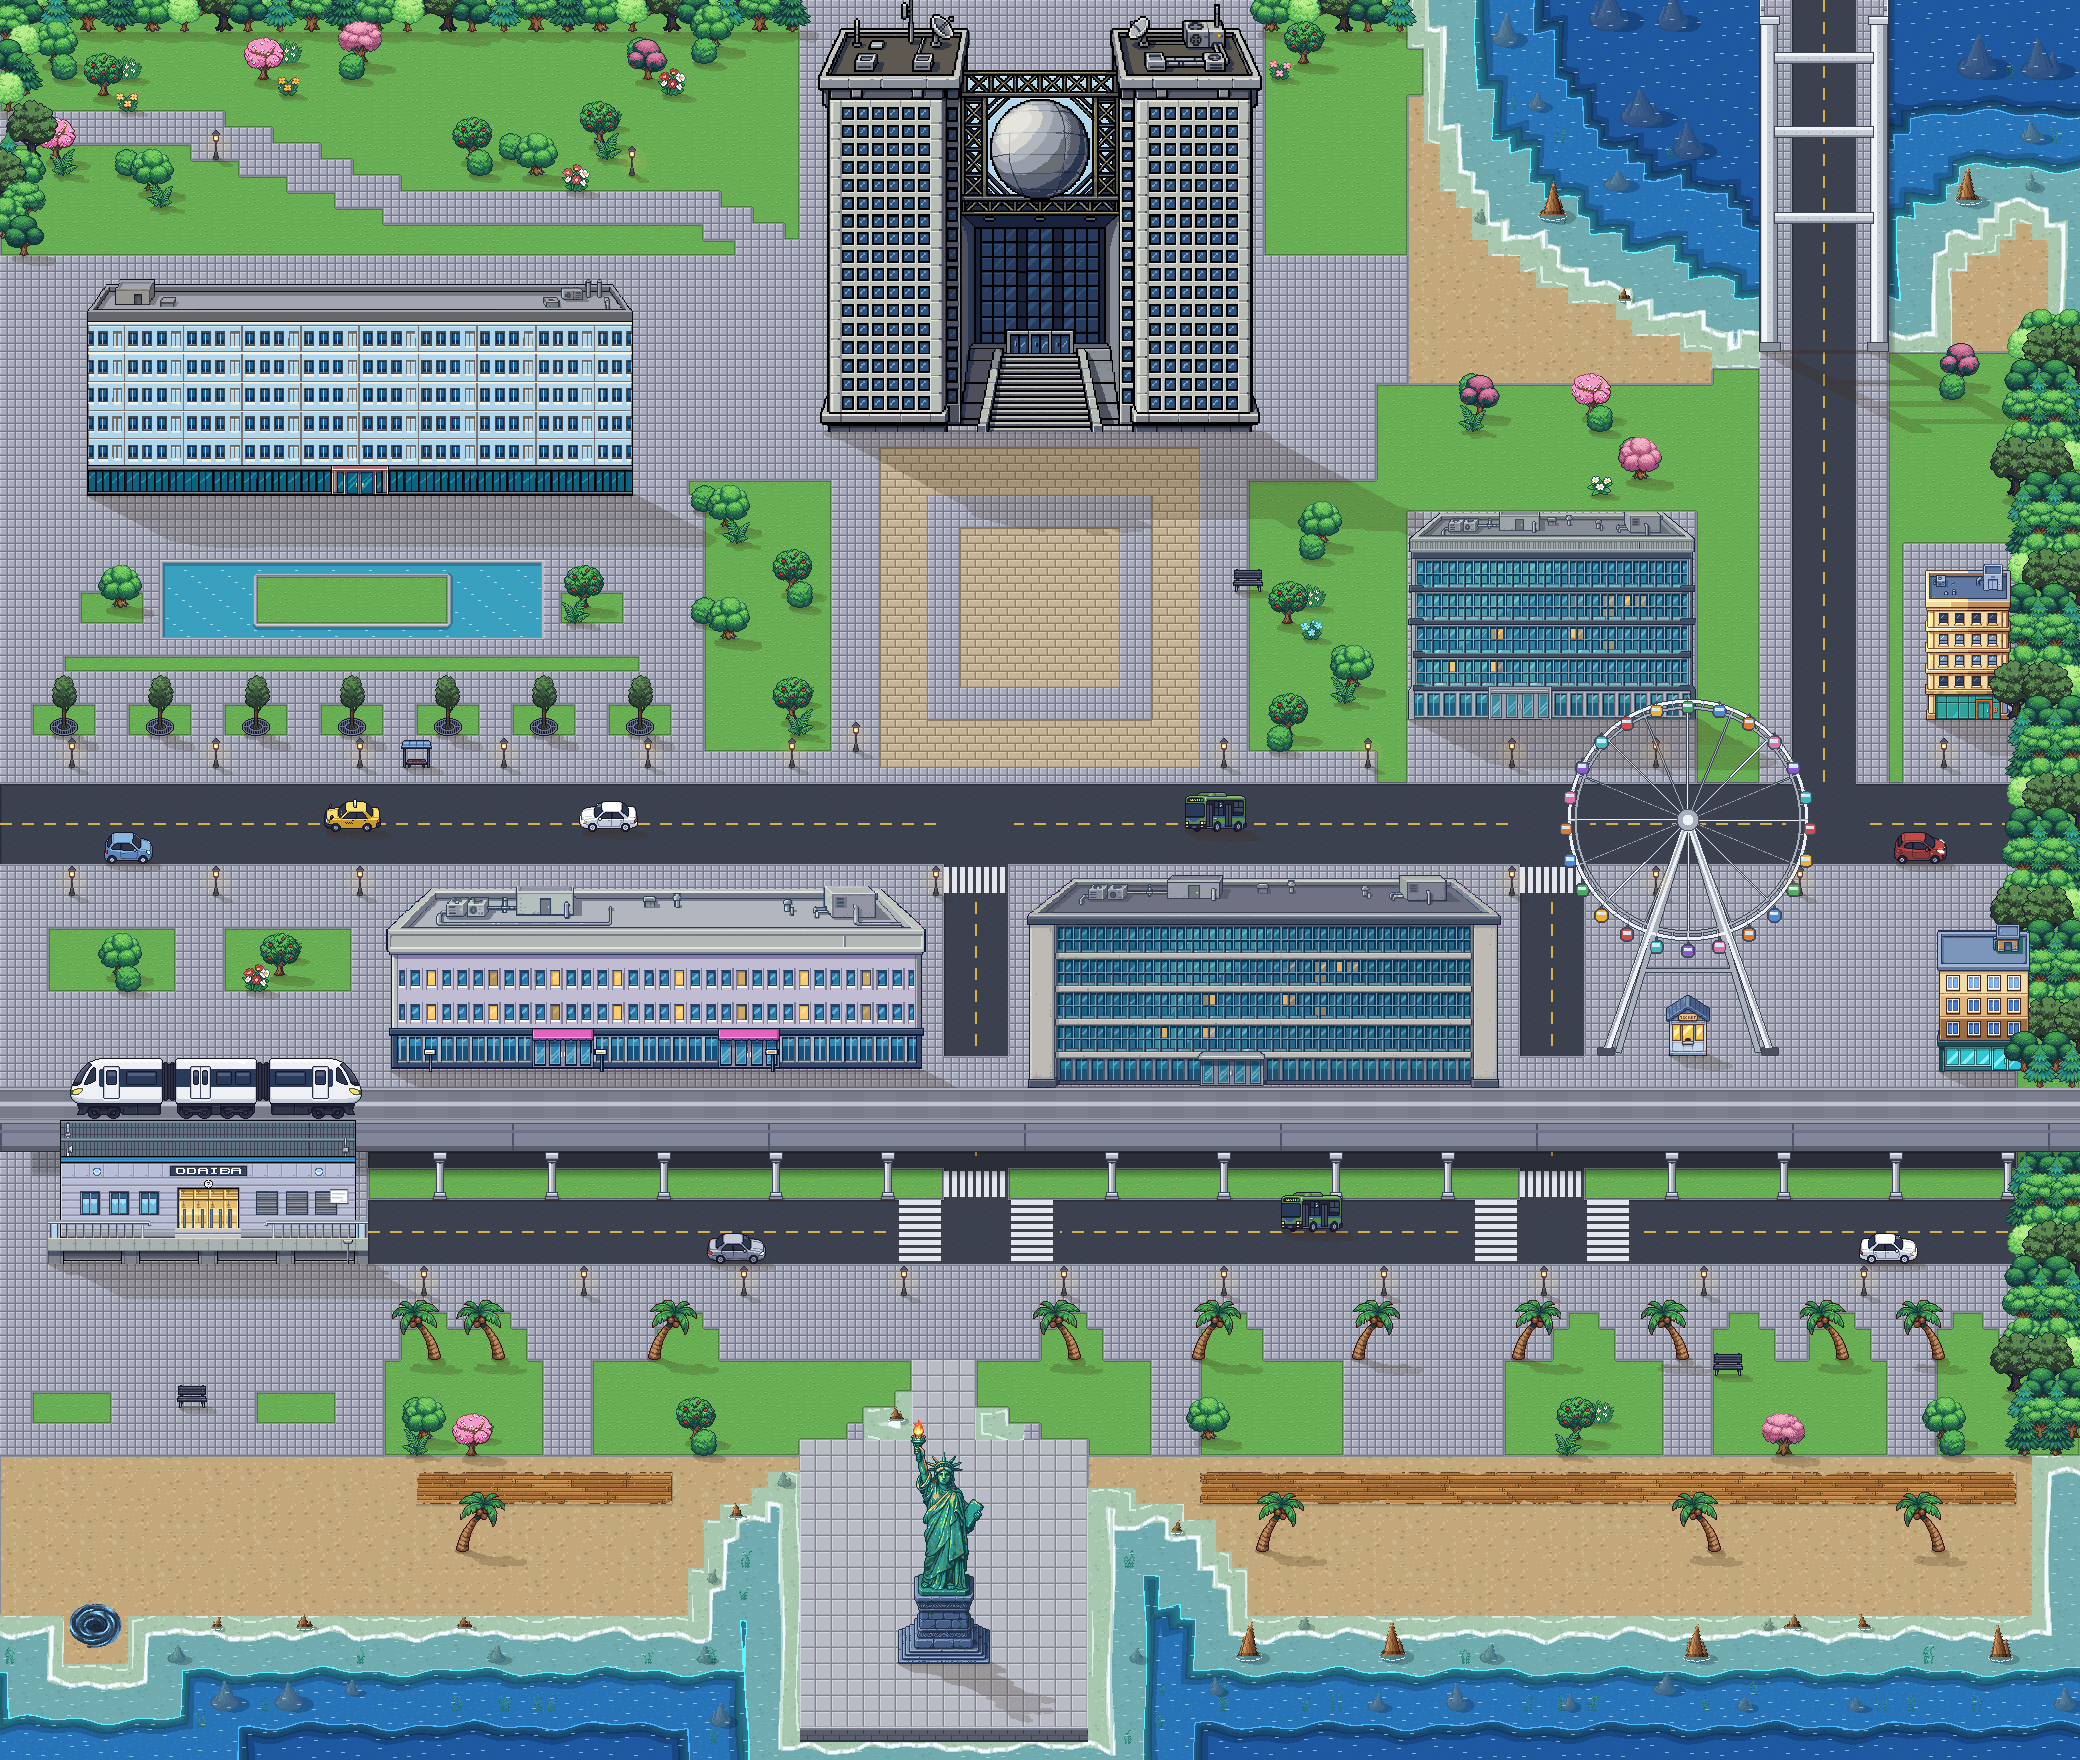
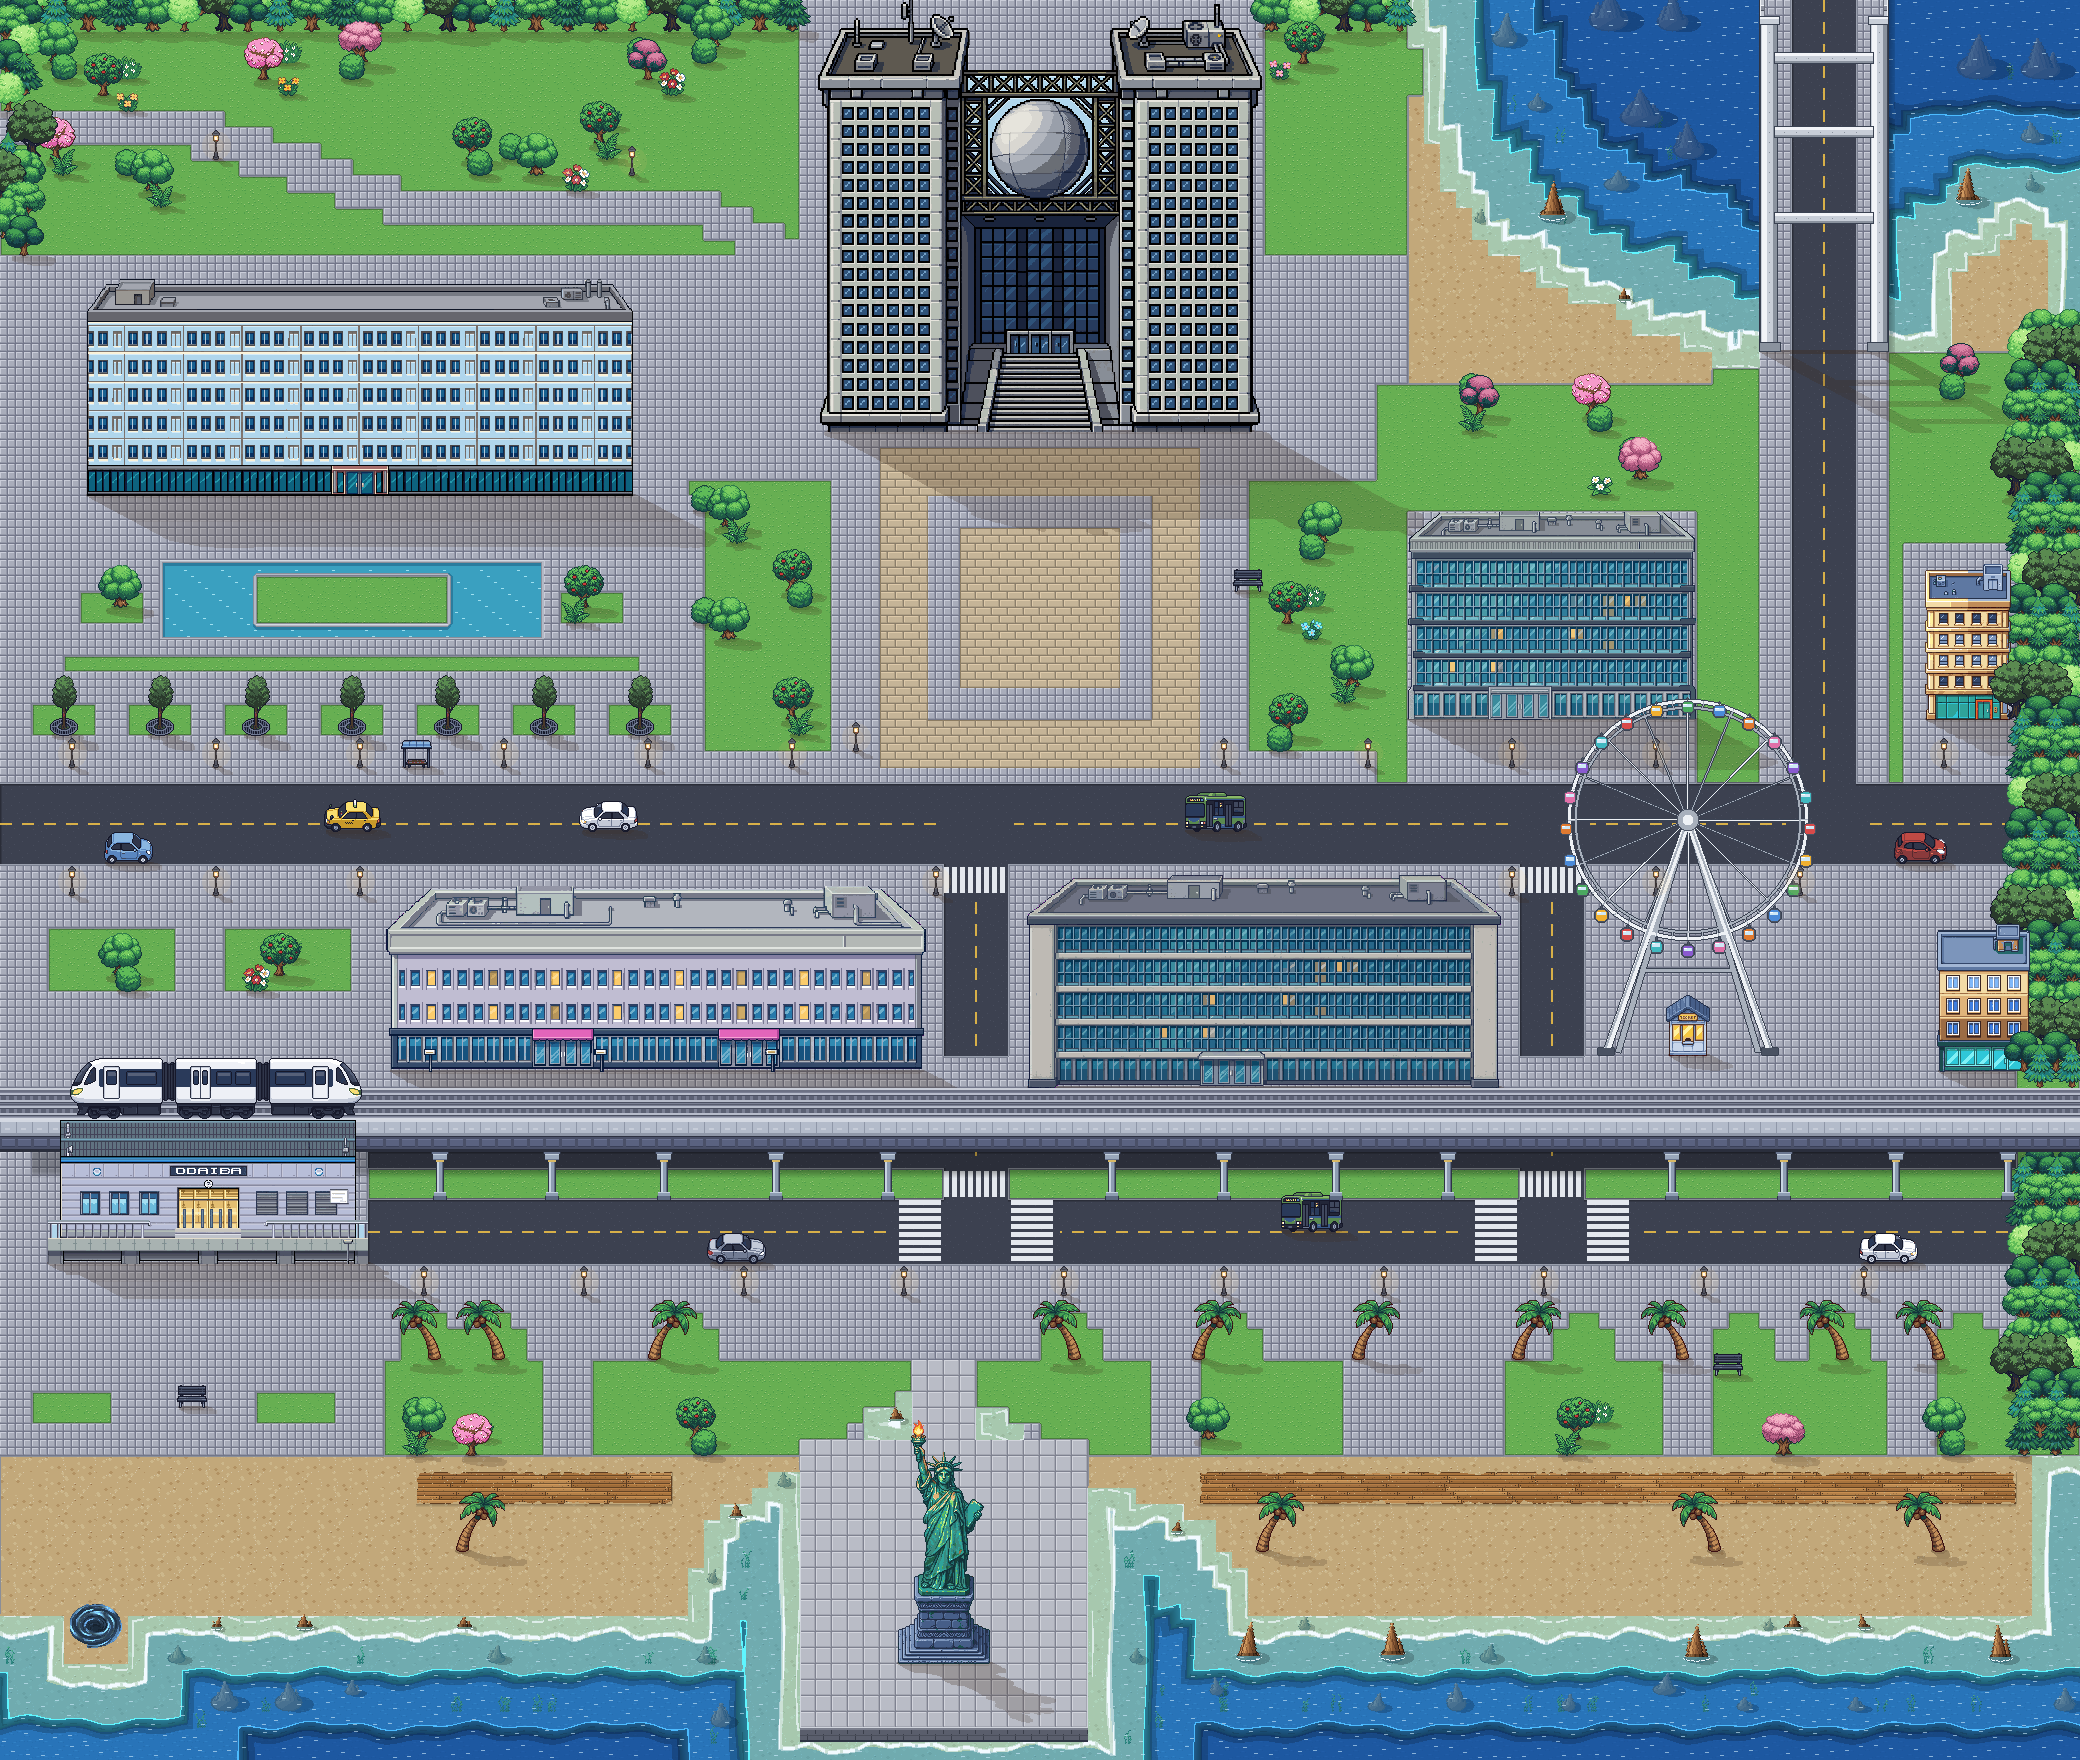
K30: Hochbahn aus kachelbarem Segment (7 Kacheln, Fahrbahn mit 2 Gleisen, Steinband, Paneelband, Stuetzpfeiler) im Stil der Vorlage; Variante ohne Pfeiler ueber Querstrassen
Claude-Session: https://claude.ai/code/session_01SaoYHKhnro4LFcPJqjaPsq

Changed region(s): [[0.125, 0.5938, 1.0, 0.6875], [0.0, 0.5938, 0.0938, 0.6562]]

diff --git a/tools/karte30_bauen.py b/tools/karte30_bauen.py
@@ -115,7 +115,77 @@ def bruecke(a, lay, wasser_m, lvl, frame):
     lvl[:Y1, X0:X0 + 5] = 9; lvl[:Y1, X1 - 5:X1] = 9
 
 
+SEG_B, SEG_P = 7, 3                                                      # Segment 7 Kacheln breit, Pfeiler in Kachel 3
+
+
+def brueckensegment(pfeiler=True):
+    """Kachelbares Hochbahn-Segment im Stil der Vorlage (Nutzer): 112 x 112 px (7 x 7 Kacheln), oben 2 Kacheln Fahrbahn
+    (Bruestung, zwei Gleise mit Schwellen), 1 Kachel helles Steinband, 1 Kachel dunkles Paneelband mit Unterkante, darunter
+    3 Kacheln frei mit einem blaugrauen Stuetzpfeiler (Kapitell, Schaft, Fuss) mittig in Kachel 3. Alle Muster haben
+    eine Periode, die 112 teilt -> nahtlos aneinander setzbar."""
+    W, Hh = SEG_B * T, 7 * T
+    a = np.zeros((Hh, W, 4), np.uint8)
+    def r(y0, y1, c, x0=0, x1=W):
+        a[y0:y1, x0:x1, :3] = H(c)[:3]; a[y0:y1, x0:x1, 3] = 255
+    # Fahrbahn (2 Kacheln): Bruestung hinten, zwei Gleise, Bruestung vorne
+    r(0, 2, '#c9cdd8'); r(2, 4, '#6c7184')
+    for g0 in (5, 18):                                                     # zwei Gleise
+        r(g0 - 1, g0 + 11, '#7a7f93')
+        for x in range(0, W, 8):                                           # Schwellen
+            r(g0 + 1, g0 + 9, '#5c6174', x + 1, x + 6)
+        r(g0, g0 + 2, '#b7bccb'); r(g0 + 2, g0 + 3, '#4b5062')            # Schiene hinten
+        r(g0 + 7, g0 + 9, '#b7bccb'); r(g0 + 9, g0 + 10, '#4b5062')       # Schiene vorne
+    r(16, 17, '#575c6e')
+    r(29, 30, '#9da2b4'); r(30, 32, '#d6dae4')                              # Bruestung vorne (Lichtkante)
+    # helles Steinband (1 Kachel): Bloecke 16 px, Fugen, Licht oben
+    r(32, 48, '#b3bbca'); r(32, 34, '#d3d8e2'); r(45, 48, '#8f97a8')
+    for x in range(0, W, 16):
+        r(34, 45, '#8f97a8', x, x + 1)
+        r(40, 42, '#c6ccd8', x + 5, x + 10)                                  # kleine Fase im Block
+    # dunkles Paneelband (1 Kachel) mit vertieften Feldern, Unterkante
+    r(48, 64, '#4a5068'); r(48, 49, '#2c3040')
+    for x in range(0, W, 16):
+        r(51, 59, '#5a6280', x + 2, x + 15); r(51, 52, '#6c7494', x + 2, x + 15); r(58, 59, '#3a4058', x + 2, x + 15)
+    r(61, 64, '#2a2e3c')
+    if pfeiler:                                                            # Stuetzpfeiler (3 Kacheln), blaugrau wie die Vorlage
+        cx = SEG_P * T + 8
+        k = '#2e3444'
+        r(64, 66, '#6a7690', cx - 9, cx + 9); r(66, 72, '#9aa8bc', cx - 7, cx + 7)    # Kapitell
+        r(66, 67, '#c4d0de', cx - 7, cx + 7); r(71, 72, '#6a7690', cx - 7, cx + 7)
+        r(72, 74, '#d8b866', cx - 4, cx + 4)                                  # schmales goldenes Band (Vorlage)
+        r(74, 104, '#8e9cb2', cx - 4, cx + 4)                                 # Schaft
+        r(74, 104, '#c8d4e2', cx - 3, cx - 1); r(74, 104, '#5e6a82', cx + 2, cx + 4)
+        r(104, 108, '#8e9cb2', cx - 6, cx + 6); r(104, 105, '#c4d0de', cx - 6, cx + 6)   # Fuss
+        r(108, 112, '#5e6a82', cx - 7, cx + 7)
+        for (y0, y1, x0, x1) in ((64, 72, cx - 9, cx + 9), (74, 104, cx - 4, cx + 4), (104, 112, cx - 7, cx + 7)):
+            a[y0:y1, x0, :3] = H(k)[:3]; a[y0:y1, x1 - 1, :3] = H(k)[:3]
+    return Image.fromarray(a)
+
+
 def hochbahn(img, lay, zug_sp=None):
+    """Hochbahn aus kachelbaren Segmenten (Nutzer): Segment 7 Kacheln, Pfeiler alle 7 Kacheln wie in der Vorlage;
+    ueber Querstrassen steht kein Pfeiler (Segment ohne Pfeiler). Zug steht auf der Fahrbahn."""
+    hb = lay['hochbahn']
+    y0 = hb['y0'] * T
+    mit, ohne = brueckensegment(True), brueckensegment(False)
+    kl = lay['klassen']
+    start = hb['pfeiler'][0] - SEG_P
+    while start > hb['x0']:
+        start -= SEG_B
+    x = start
+    while x <= hb['x1']:
+        px_ = x + SEG_P                                                    # Pfeilerkachel dieses Segments
+        auf_strasse = not (0 <= px_ < len(kl[0])) or kl[74][px_] == 's' or kl[76][px_] != 's'
+        img.alpha_composite(ohne if auf_strasse else mit, (x * T, y0))
+        x += SEG_B
+    if zug_sp is not None:
+        zx0, zx1 = hb['zug']
+        x_ = zx0 * T + (-(-zug_sp.width // T) * T - zug_sp.width) // 2
+        img.alpha_composite(zug_sp, (x_, y0 + 31 - zug_sp.height))
+    return img
+
+
+def hochbahn_alt(img, lay, zug_sp=None):
     """Hochbahn wie Karte 18 (Oberseite 2 Kacheln mit Fuehrungsschiene, Front 2 Kacheln), aber durchgehend von Rand
     zu Rand (kein Prellbock, kein Nebel); der Zug steht auf der Fahrbahn."""
     hb = lay['hochbahn']
@@ -357,6 +427,7 @@ def bauen(frame=None, speichern=True):
         zuege = [o for o in objs if o.get('hochbahn')]
         if zuege:
             zug = cache[zuege[0]['datei']]
+    img = img.convert('RGBA')
     img = hochbahn(img, lay, zug)
     if os.path.exists(pf):                                            # Bahnhof steht VOR der Strecke (Nutzer)
         for o in objs:

diff --git a/tools/karte30_objekte.py b/tools/karte30_objekte.py
@@ -154,8 +154,7 @@ def main():
     for yt in (by1 + 1,):
         setze('gebaeude/brueckenturm', (bx0 + bx1 + 1) * T // 2, yt * T - 1, {'kein_schatten': True}, pruefen=False)
     hochbahn_pfeiler().save(os.path.join(OBJ, 'gebaeude', 'hochbahn_pfeiler.png'))
-    for px_ in lay['hochbahn']['pfeiler']:                                           # Stuetzpfeiler auf dem Rasenstreifen
-        setze('gebaeude/hochbahn_pfeiler', px_ * T + 8, 75 * T - 1, {'nur_kontakt': True}, pruefen=False)
+    # (Stuetzpfeiler sind jetzt Teil des kachelbaren Hochbahn-Segments in karte30_bauen.py)
     zx0, zx1 = lay['hochbahn']['zug']
     zug = Image.open(os.path.join(ROOT, 'assets', 'objekte', 'karte18', 'gebaeude', 'zug.png'))
     shutil.copy(os.path.join(ROOT, 'assets', 'objekte', 'karte18', 'gebaeude', 'zug.png'), os.path.join(OBJ, 'fremd', 'zug.png'))
